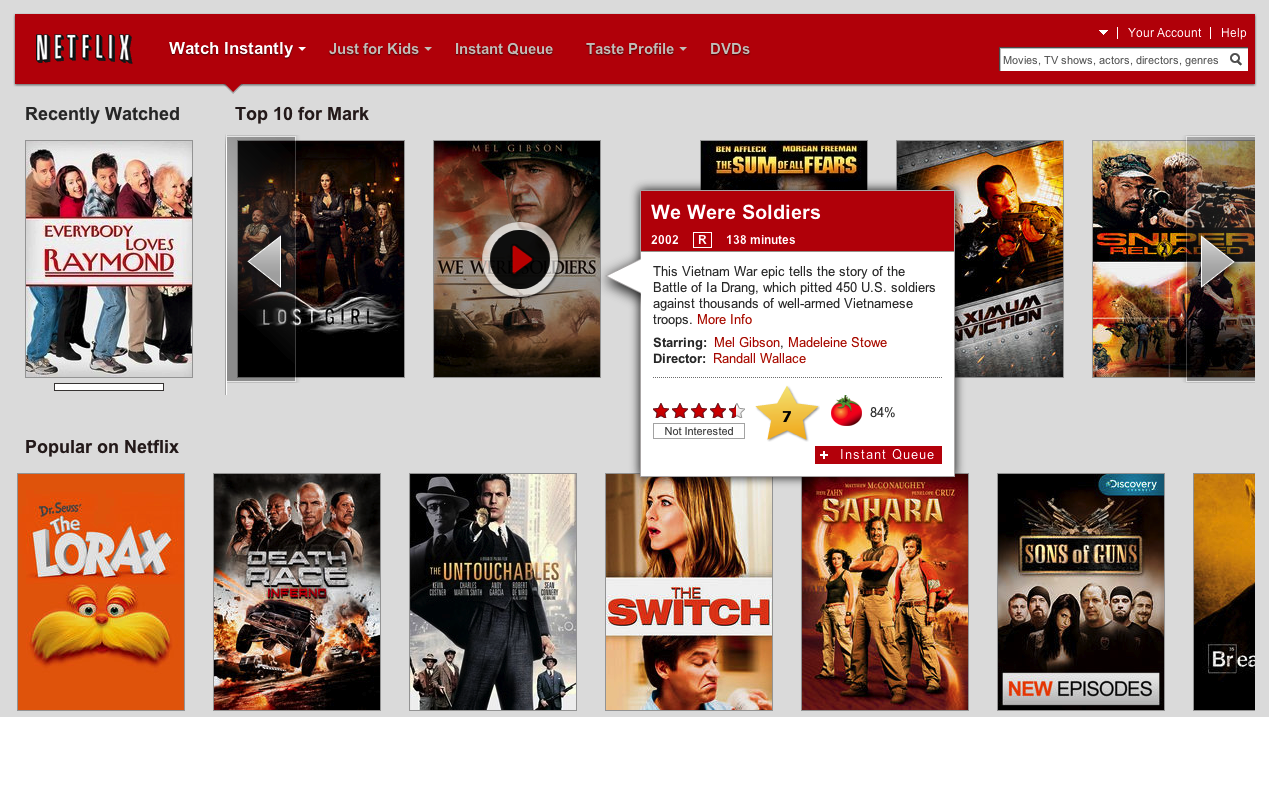
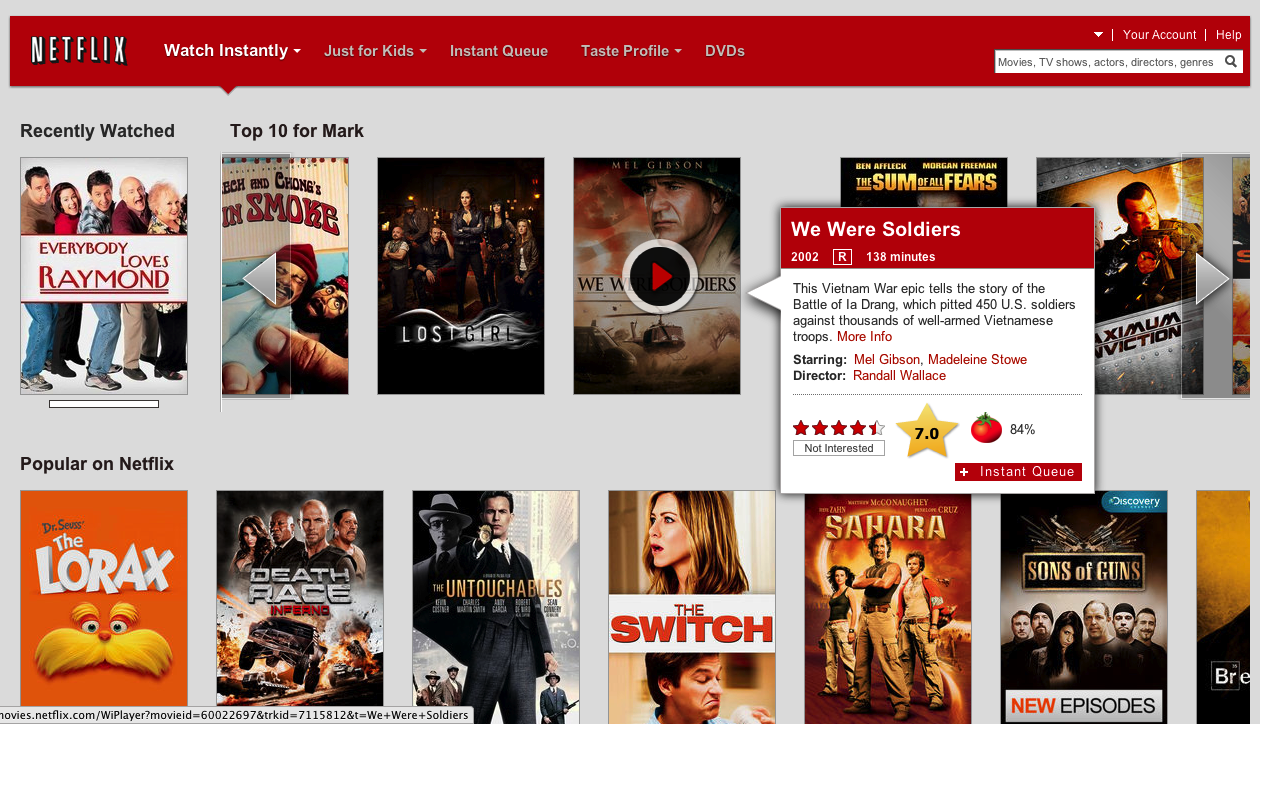
decimal precision

diff --git a/js/ratings.js b/js/ratings.js
@@ -108,7 +108,7 @@ function getIMDBHtml(score) {
 	if (score === null) {
 		html.css('visibility', 'hidden');
 	} else {
-		html.append(score);
+		html.append(score.toFixed(1));
 	}
 	return html
 }
